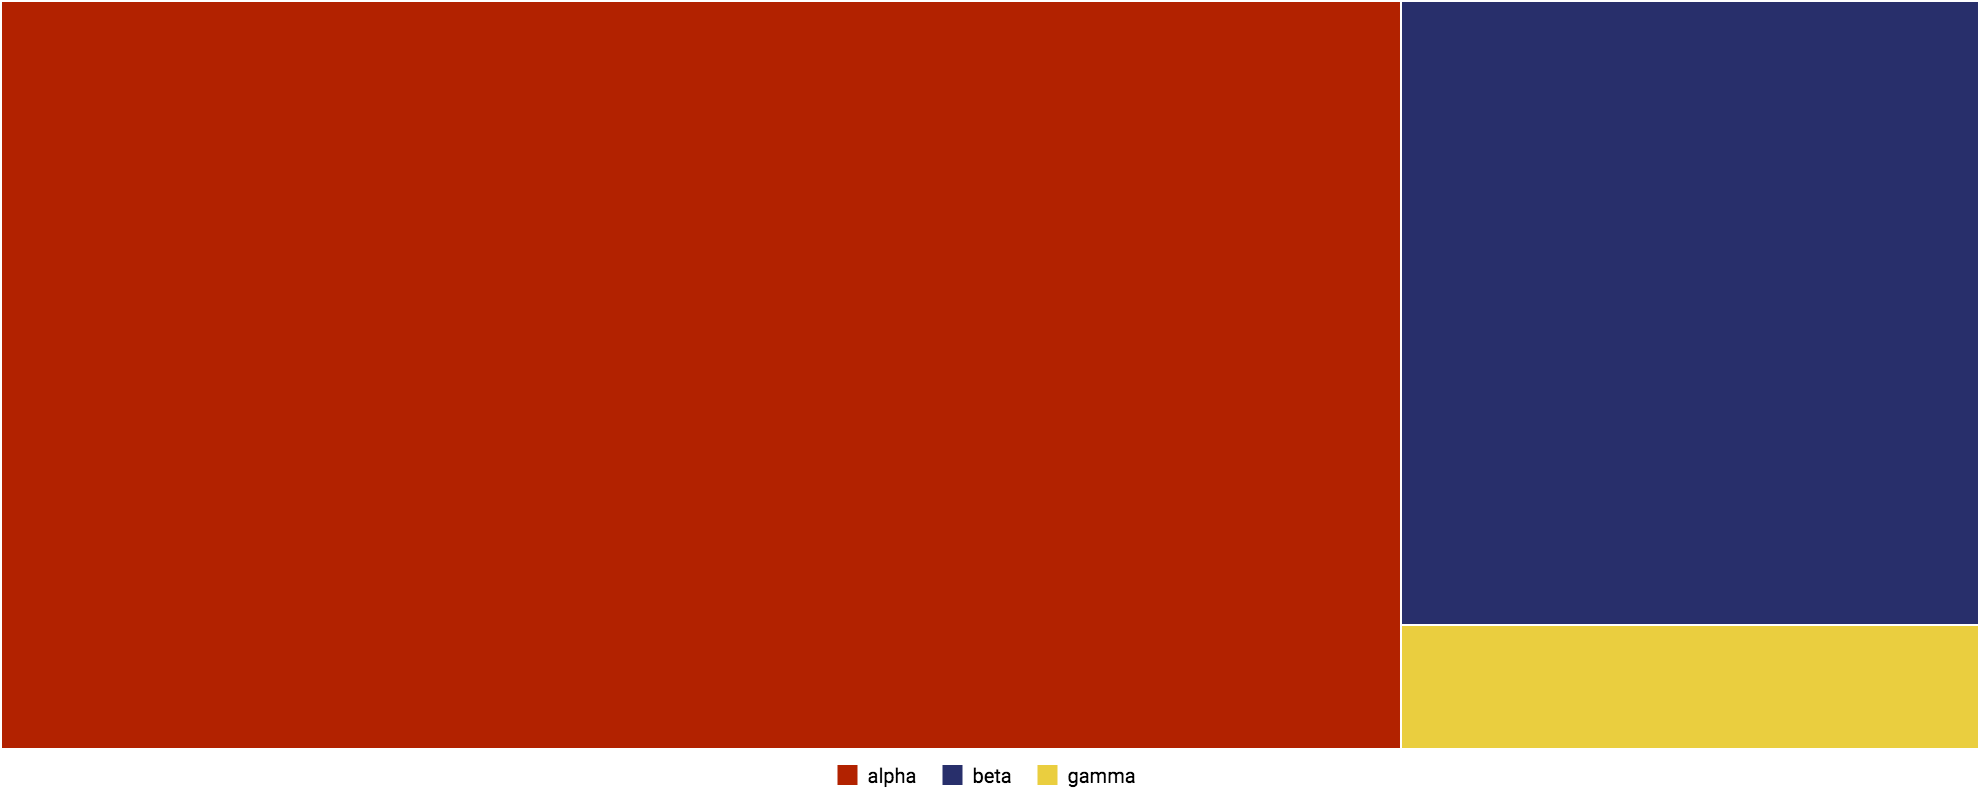
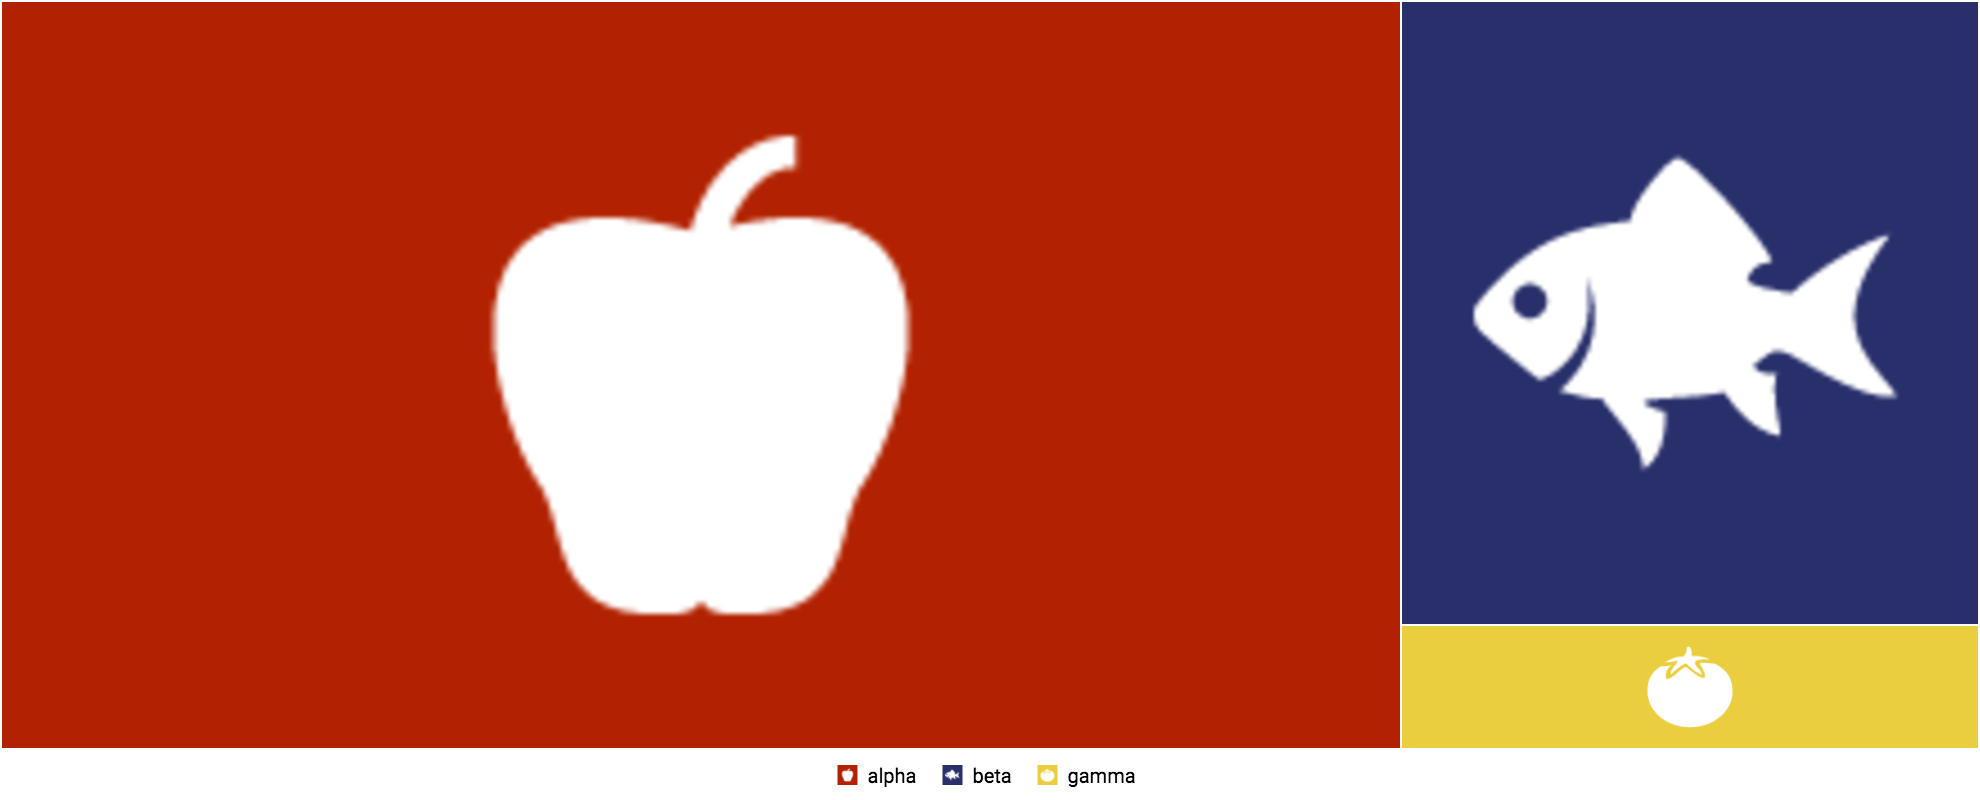
d3plus-hierarchy examples

Changed region(s): [[0.2465, 0.1562, 0.4621, 0.7812], [0.7394, 0.1875, 0.9551, 0.5938], [0.8318, 0.8125, 0.8934, 0.9062]]

diff --git a/_examples/d3plus-hierarchy/background-image/embed.html b/_examples/d3plus-hierarchy/background-image/embed.html
@@ -4,7 +4,7 @@
 <head>
 
   <meta charset="utf-8">
-  <script src="https://d3plus.org/js/d3plus-hierarchy.v0.5.full.min.js"></script>
+  <script src="https://d3plus.org/js/d3plus-hierarchy.v0.6.full.min.js"></script>
 
   <style>
 

diff --git a/_examples/d3plus-hierarchy/custom-color/embed.html b/_examples/d3plus-hierarchy/custom-color/embed.html
@@ -4,7 +4,7 @@
 <head>
 
   <meta charset="utf-8">
-  <script src="https://d3plus.org/js/d3plus-hierarchy.v0.5.full.min.js"></script>
+  <script src="https://d3plus.org/js/d3plus-hierarchy.v0.6.full.min.js"></script>
 
   <style>
 

diff --git a/_examples/d3plus-hierarchy/custom-font/embed.html b/_examples/d3plus-hierarchy/custom-font/embed.html
@@ -4,7 +4,7 @@
 <head>
 
   <meta charset="utf-8">
-  <script src="https://d3plus.org/js/d3plus-hierarchy.v0.5.full.min.js"></script>
+  <script src="https://d3plus.org/js/d3plus-hierarchy.v0.6.full.min.js"></script>
 
   <style>
 

diff --git a/_examples/d3plus-hierarchy/getting-started/embed.html b/_examples/d3plus-hierarchy/getting-started/embed.html
@@ -4,7 +4,7 @@
 <head>
 
   <meta charset="utf-8">
-  <script src="https://d3plus.org/js/d3plus-hierarchy.v0.5.full.min.js"></script>
+  <script src="https://d3plus.org/js/d3plus-hierarchy.v0.6.full.min.js"></script>
 
   <style>
 

diff --git a/_examples/d3plus-hierarchy/mouse-events/embed.html b/_examples/d3plus-hierarchy/mouse-events/embed.html
@@ -4,7 +4,7 @@
 <head>
 
   <meta charset="utf-8">
-  <script src="https://d3plus.org/js/d3plus-hierarchy.v0.5.full.min.js"></script>
+  <script src="https://d3plus.org/js/d3plus-hierarchy.v0.6.full.min.js"></script>
 
   <style>
 

diff --git a/_examples/d3plus-hierarchy/selecting-container/embed.html b/_examples/d3plus-hierarchy/selecting-container/embed.html
@@ -4,7 +4,7 @@
 <head>
 
   <meta charset="utf-8">
-  <script src="https://d3plus.org/js/d3plus-hierarchy.v0.5.full.min.js"></script>
+  <script src="https://d3plus.org/js/d3plus-hierarchy.v0.6.full.min.js"></script>
 
   <style>
 

diff --git a/_examples/d3plus-hierarchy/tooltip-contents/embed.html b/_examples/d3plus-hierarchy/tooltip-contents/embed.html
@@ -4,7 +4,7 @@
 <head>
 
   <meta charset="utf-8">
-  <script src="https://d3plus.org/js/d3plus-hierarchy.v0.5.full.min.js"></script>
+  <script src="https://d3plus.org/js/d3plus-hierarchy.v0.6.full.min.js"></script>
 
   <style>
 

diff --git a/_examples/d3plus-hierarchy/custom-color/index.md b/_examples/d3plus-hierarchy/custom-color/index.md
@@ -2,8 +2,8 @@
 title: Defining Custom Colors for a Visualization
 width: 990
 height: 400
-time: 1523027791621
-date: April 06, 2018
+time: 1523388626431
+date: April 10, 2018
 ---
 
 # Defining Custom Colors for a Visualization

diff --git a/_examples/d3plus-hierarchy/background-image/index.md b/_examples/d3plus-hierarchy/background-image/index.md
@@ -2,8 +2,8 @@
 title: Adding Background Images to Shapes
 width: 990
 height: 400
-time: 1523027791621
-date: April 06, 2018
+time: 1523388626431
+date: April 10, 2018
 ---
 
 # Adding Background Images to Shapes

diff --git a/_examples/d3plus-hierarchy/selecting-container/index.md b/_examples/d3plus-hierarchy/selecting-container/index.md
@@ -2,8 +2,8 @@
 title: Rendering into a Specific DOM Container
 width: 500
 height: 200
-time: 1523027791621
-date: April 06, 2018
+time: 1523388626431
+date: April 10, 2018
 ---
 
 [width]: 500

diff --git a/_examples/d3plus-hierarchy/tooltip-contents/index.md b/_examples/d3plus-hierarchy/tooltip-contents/index.md
@@ -2,8 +2,8 @@
 title: Custom Tooltip Contents
 width: 990
 height: 400
-time: 1523027791621
-date: April 06, 2018
+time: 1523388626431
+date: April 10, 2018
 ---
 
 # Custom Tooltip Contents

diff --git a/_examples/d3plus-hierarchy/custom-font/index.md b/_examples/d3plus-hierarchy/custom-font/index.md
@@ -2,8 +2,8 @@
 title: Changing Font Styles
 width: 990
 height: 400
-time: 1523027791621
-date: April 06, 2018
+time: 1523388626431
+date: April 10, 2018
 ---
 
 # Changing Font Styles
